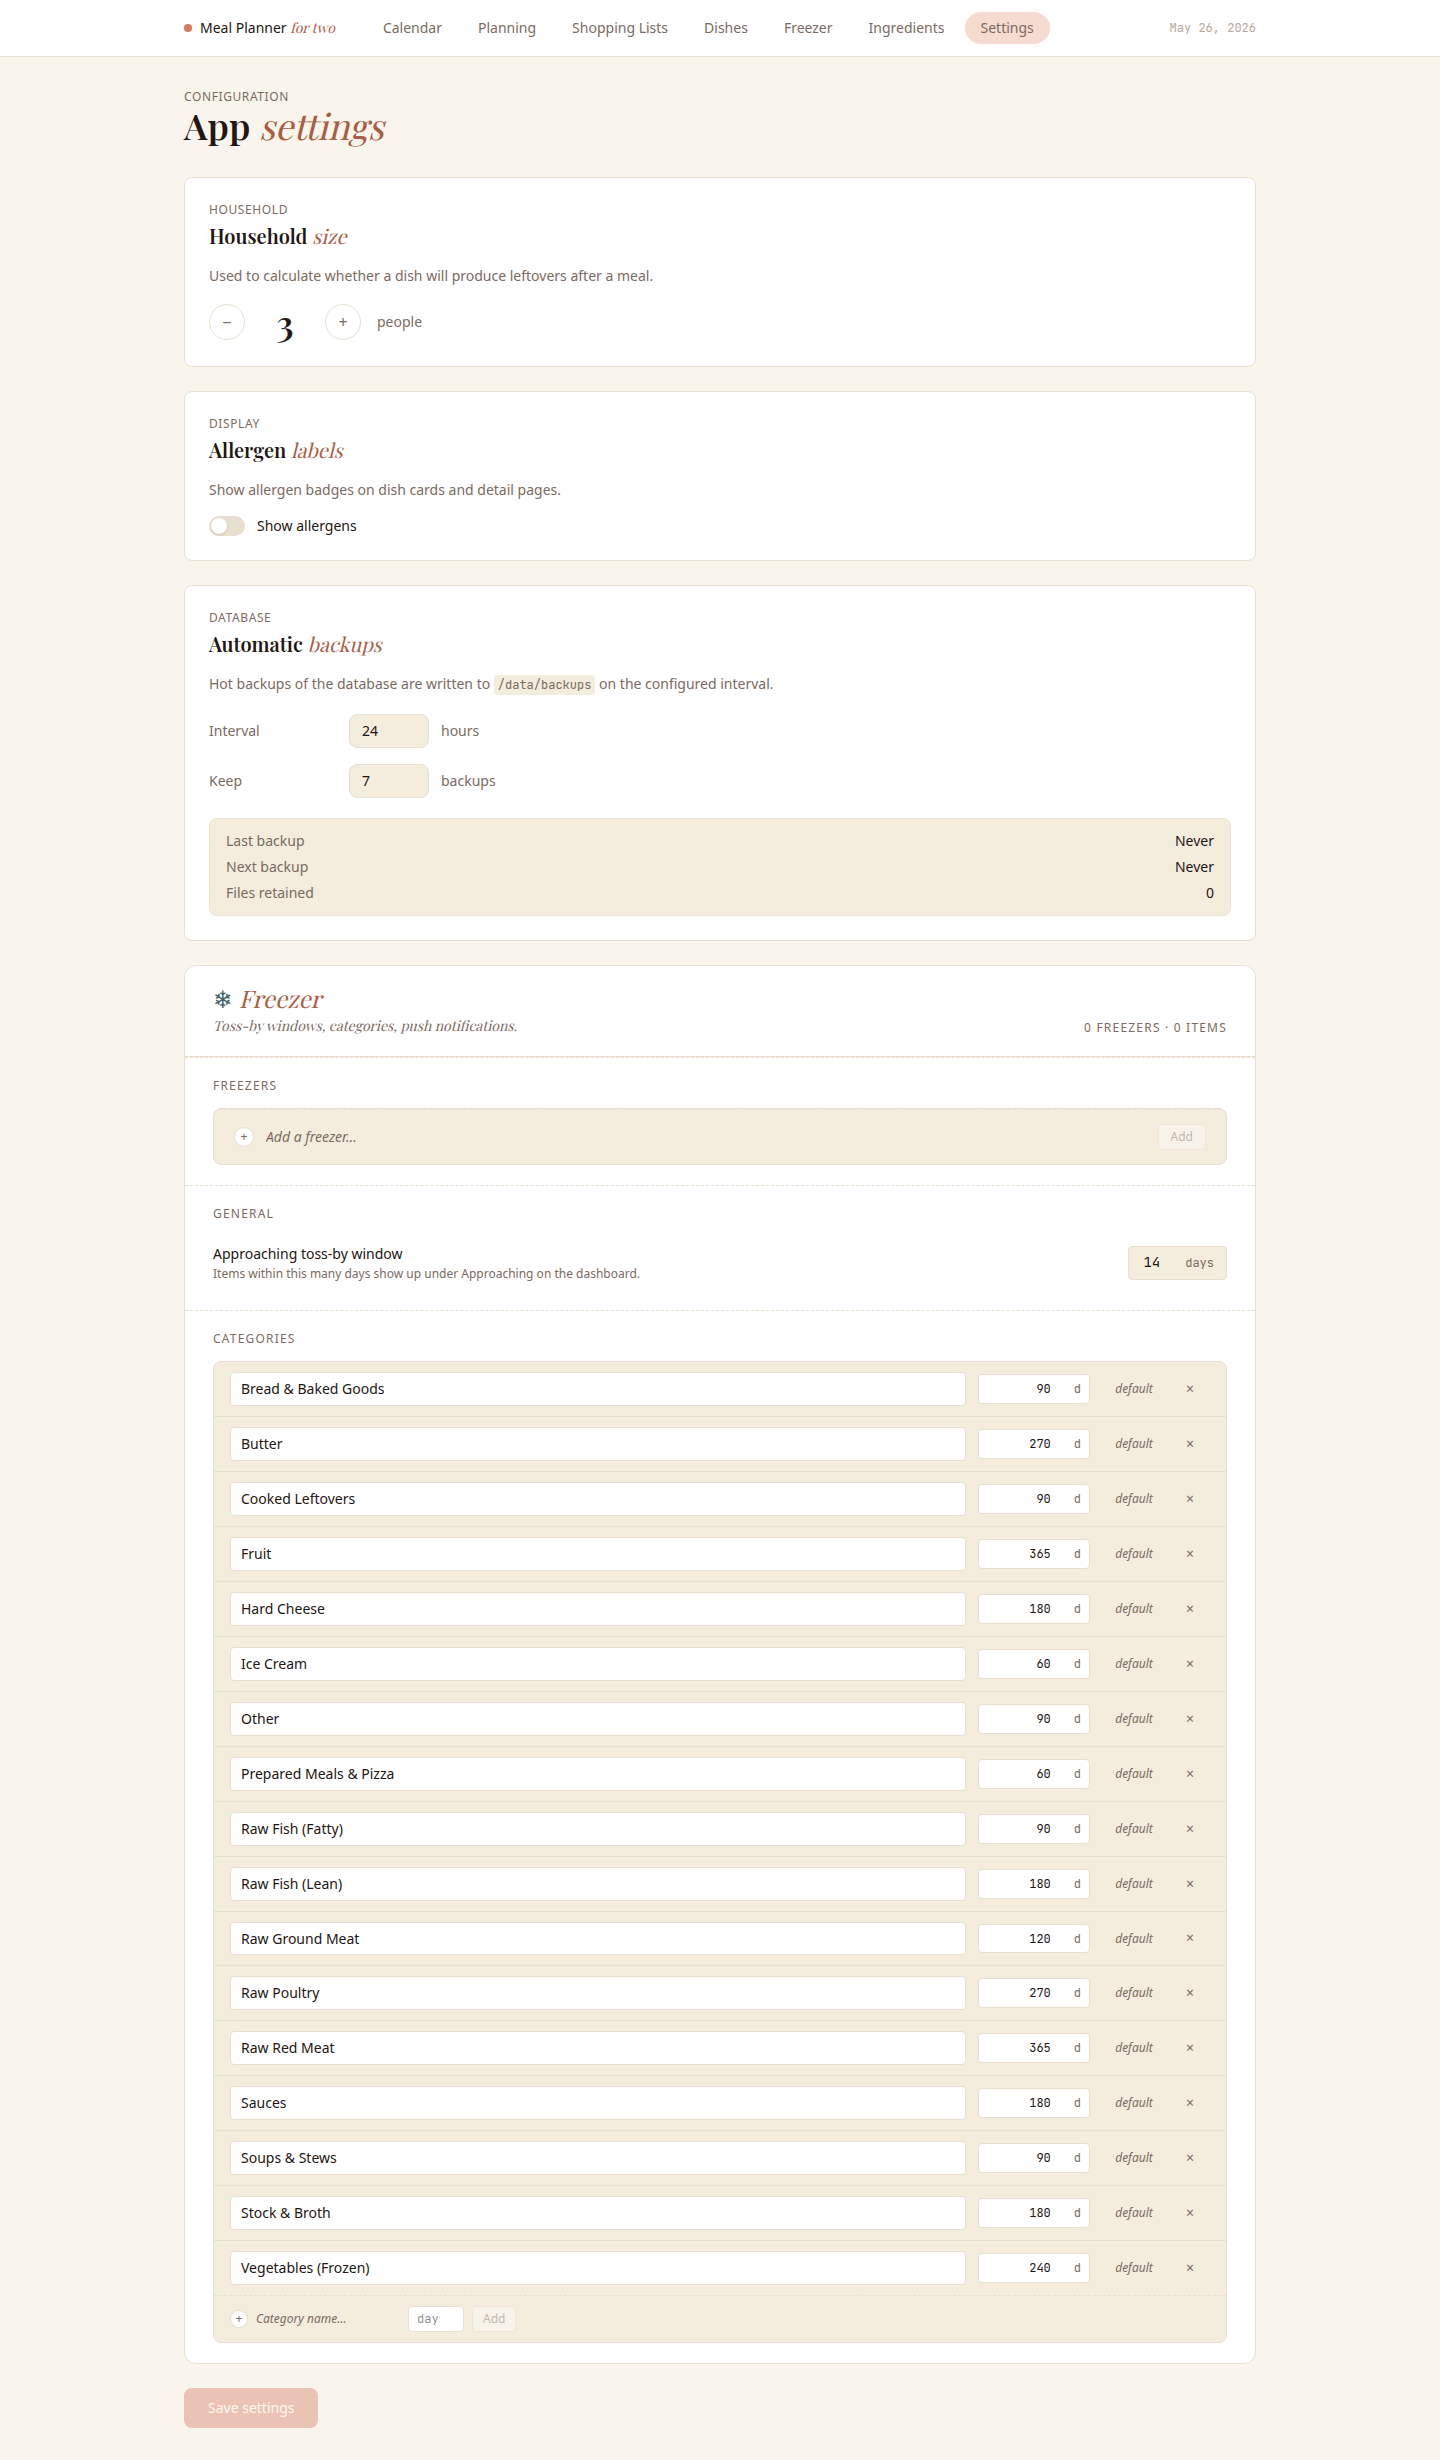
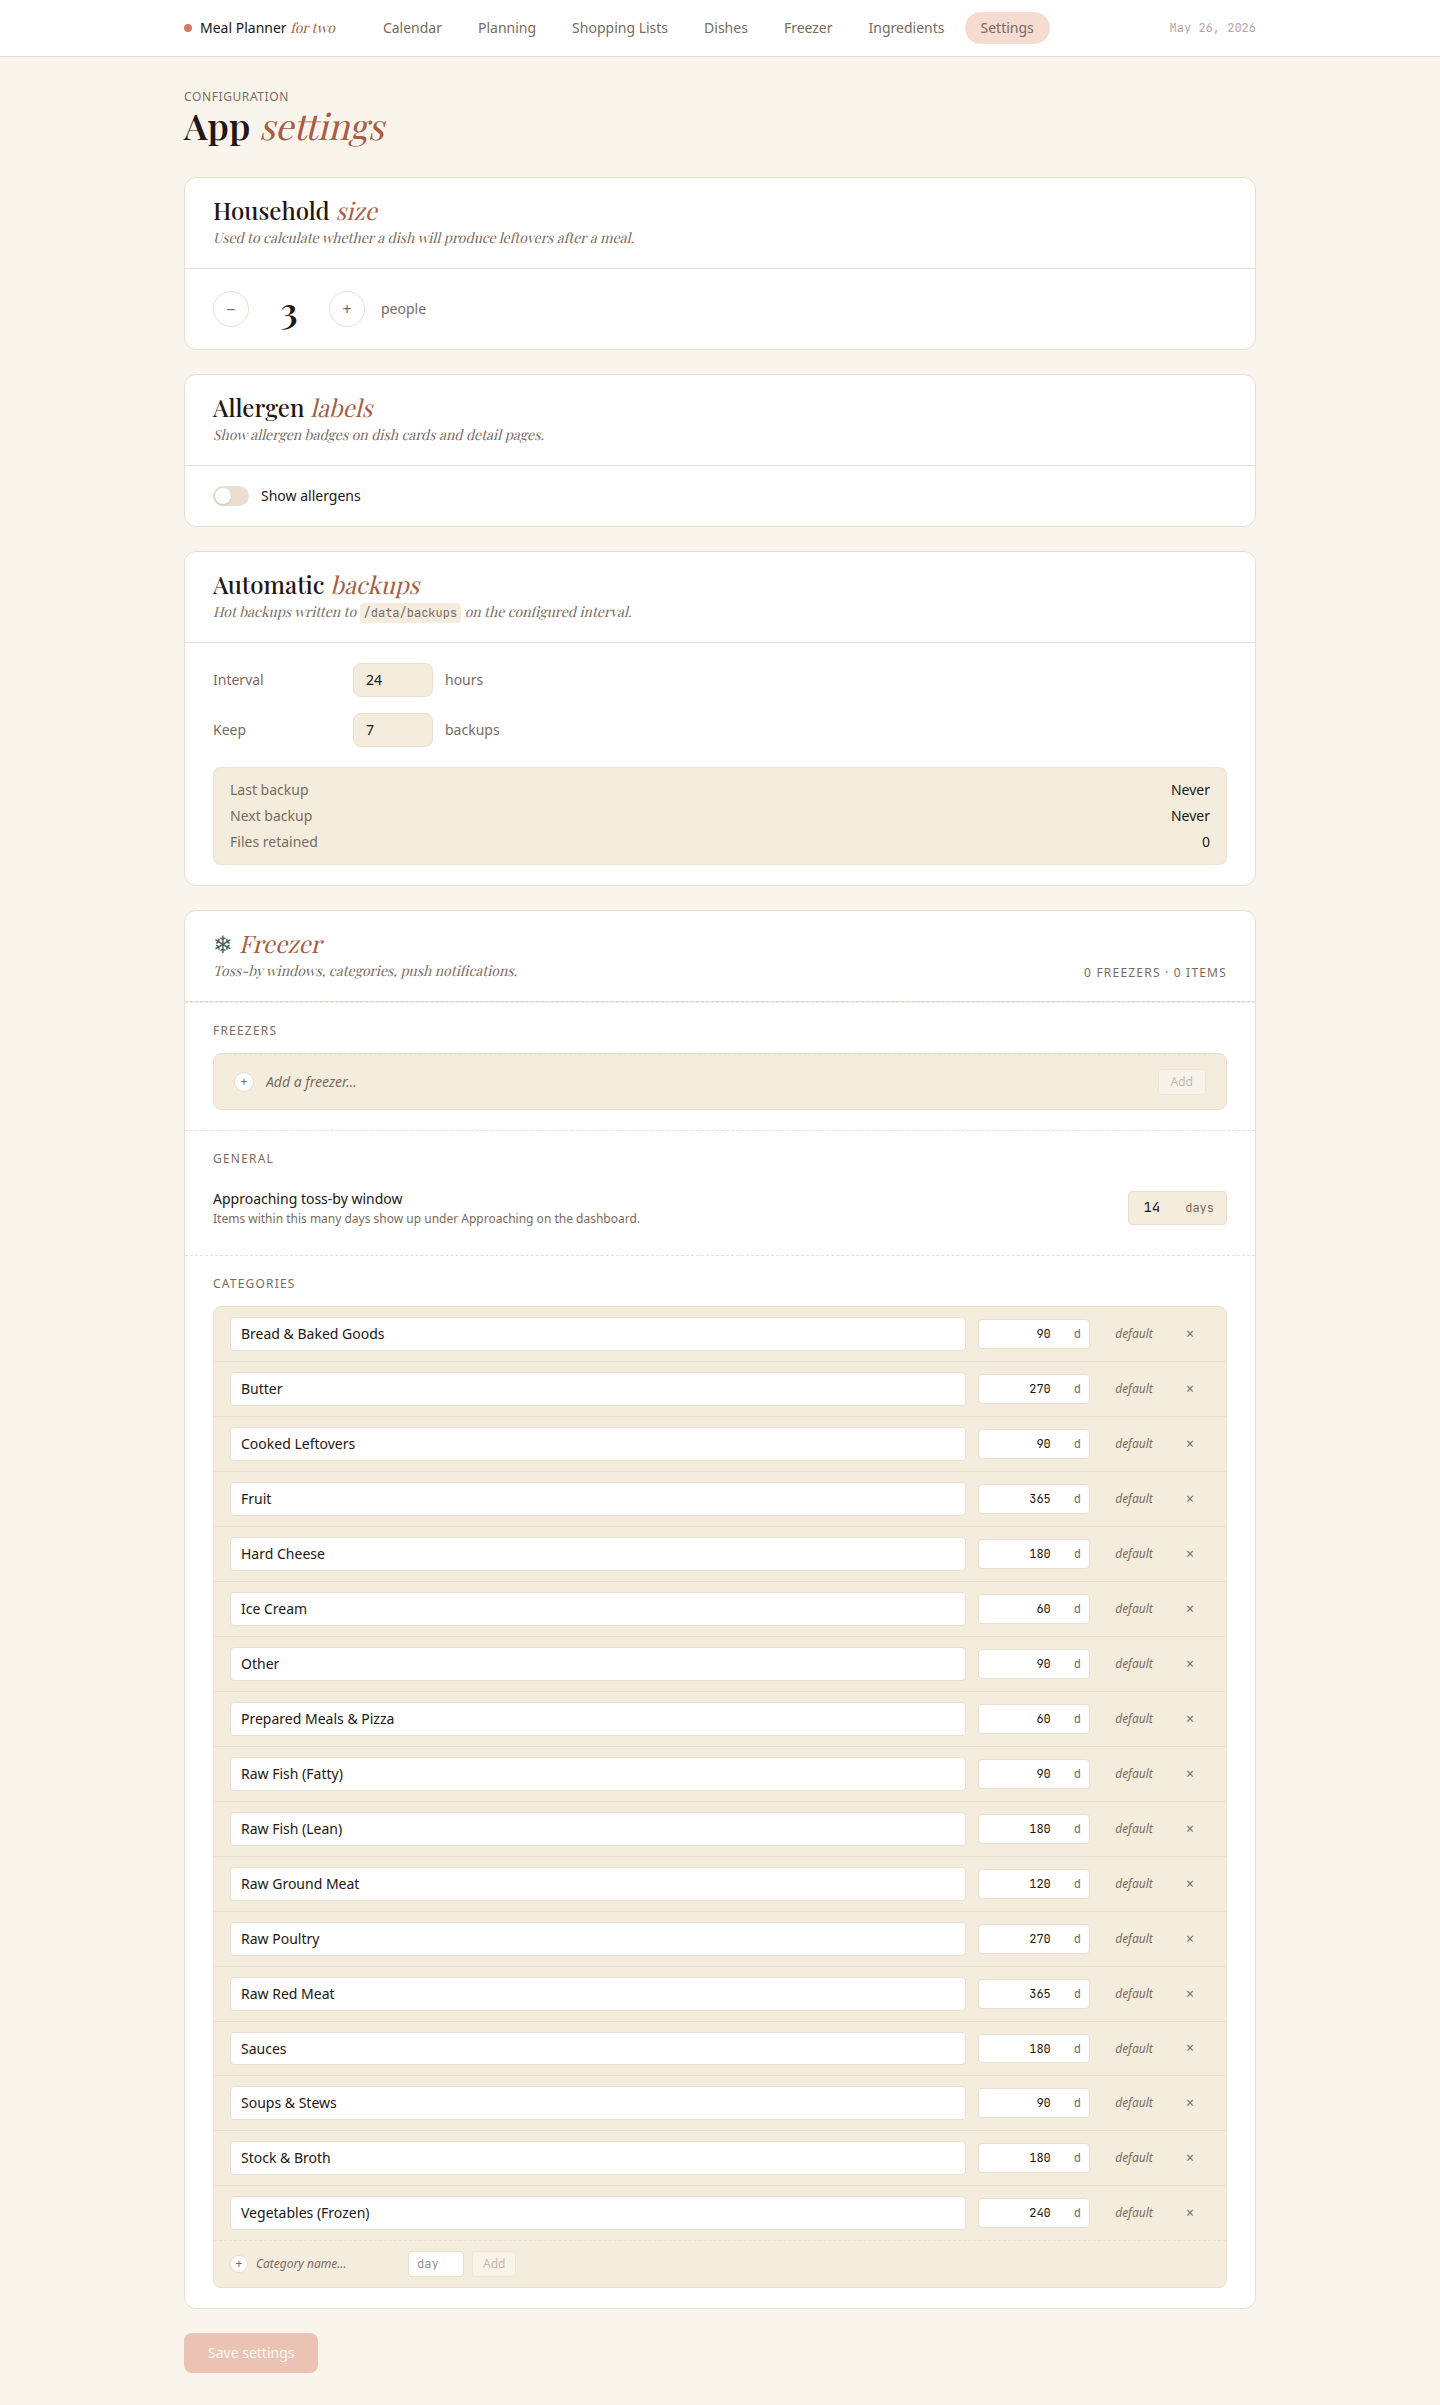
fix: match all settings card headers to freezer card style
Convert Household size, Allergen labels, and Automatic backups cards
to use the same rounded-xl overflow-hidden structure with a border-b
header section (h2 + italic serif subtitle) matching the Freezer card.
Removes the separate uppercase eyebrow labels.

Changed region(s): [[0.125, 0.0312, 0.875, 0.9667]]

diff --git a/app/pages/settings.vue b/app/pages/settings.vue
@@ -14,109 +14,116 @@
 
     <div v-else class="space-y-6">
       <!-- Household size -->
-      <div class="rounded-lg border border-border bg-surface p-6">
-        <p class="mb-1 text-xs font-medium uppercase tracking-wider text-text-muted">Household</p>
-        <h2 class="mb-4 font-serif text-xl font-semibold text-text">
-          Household <em class="font-normal italic text-accent-deep">size</em>
-        </h2>
-        <p class="mb-4 text-sm text-text-muted">
-          Used to calculate whether a dish will produce leftovers after a meal.
-        </p>
-        <div class="flex items-center gap-4">
-          <button
-            type="button"
-            class="flex h-9 w-9 items-center justify-center rounded-full border border-border text-text-muted hover:bg-surface-alt transition"
-            @click="form.householdSize = Math.max(1, form.householdSize - 1)"
-          >−</button>
-          <span class="font-serif text-4xl font-semibold text-text w-12 text-center">{{ form.householdSize }}</span>
-          <button
-            type="button"
-            class="flex h-9 w-9 items-center justify-center rounded-full border border-border text-text-muted hover:bg-surface-alt transition"
-            @click="form.householdSize++"
-          >+</button>
-          <span class="text-sm text-text-muted">people</span>
+      <div class="rounded-xl border border-border bg-surface overflow-hidden">
+        <div class="border-b border-border px-7 py-5">
+          <h2 class="font-serif text-2xl font-medium leading-none text-text">
+            Household <em class="font-normal italic text-accent-deep">size</em>
+          </h2>
+          <p class="mt-1.5 font-serif italic text-sm text-text-muted">
+            Used to calculate whether a dish will produce leftovers after a meal.
+          </p>
+        </div>
+        <div class="px-7 py-5">
+          <div class="flex items-center gap-4">
+            <button
+              type="button"
+              class="flex h-9 w-9 items-center justify-center rounded-full border border-border text-text-muted hover:bg-surface-alt transition"
+              @click="form.householdSize = Math.max(1, form.householdSize - 1)"
+            >−</button>
+            <span class="font-serif text-4xl font-semibold text-text w-12 text-center">{{ form.householdSize }}</span>
+            <button
+              type="button"
+              class="flex h-9 w-9 items-center justify-center rounded-full border border-border text-text-muted hover:bg-surface-alt transition"
+              @click="form.householdSize++"
+            >+</button>
+            <span class="text-sm text-text-muted">people</span>
+          </div>
         </div>
       </div>
 
       <!-- Allergen visibility -->
-      <div class="rounded-lg border border-border bg-surface p-6">
-        <p class="mb-1 text-xs font-medium uppercase tracking-wider text-text-muted">Display</p>
-        <h2 class="mb-4 font-serif text-xl font-semibold text-text">
-          Allergen <em class="font-normal italic text-accent-deep">labels</em>
-        </h2>
-        <p class="mb-4 text-sm text-text-muted">
-          Show allergen badges on dish cards and detail pages.
-        </p>
-        <label class="flex cursor-pointer items-center gap-3 select-none">
-          <button
-            type="button"
-            role="switch"
-            :aria-checked="form.showAllergens"
-            class="relative inline-flex h-5 w-9 shrink-0 rounded-full border-2 border-transparent transition-colors focus:outline-none focus:ring-2 focus:ring-accent/40"
-            :class="form.showAllergens ? 'bg-accent' : 'bg-border'"
-            @click="form.showAllergens = !form.showAllergens"
-          >
-            <span
-              class="pointer-events-none inline-block h-4 w-4 transform rounded-full bg-white shadow transition-transform"
-              :class="form.showAllergens ? 'translate-x-4' : 'translate-x-0'"
-            />
-          </button>
-          <span class="text-sm text-text">Show allergens</span>
-        </label>
+      <div class="rounded-xl border border-border bg-surface overflow-hidden">
+        <div class="border-b border-border px-7 py-5">
+          <h2 class="font-serif text-2xl font-medium leading-none text-text">
+            Allergen <em class="font-normal italic text-accent-deep">labels</em>
+          </h2>
+          <p class="mt-1.5 font-serif italic text-sm text-text-muted">
+            Show allergen badges on dish cards and detail pages.
+          </p>
+        </div>
+        <div class="px-7 py-5">
+          <label class="flex cursor-pointer items-center gap-3 select-none">
+            <button
+              type="button"
+              role="switch"
+              :aria-checked="form.showAllergens"
+              class="relative inline-flex h-5 w-9 shrink-0 rounded-full border-2 border-transparent transition-colors focus:outline-none focus:ring-2 focus:ring-accent/40"
+              :class="form.showAllergens ? 'bg-accent' : 'bg-border'"
+              @click="form.showAllergens = !form.showAllergens"
+            >
+              <span
+                class="pointer-events-none inline-block h-4 w-4 transform rounded-full bg-white shadow transition-transform"
+                :class="form.showAllergens ? 'translate-x-4' : 'translate-x-0'"
+              />
+            </button>
+            <span class="text-sm text-text">Show allergens</span>
+          </label>
+        </div>
       </div>
 
       <!-- Database backups -->
-      <div class="rounded-lg border border-border bg-surface p-6">
-        <p class="mb-1 text-xs font-medium uppercase tracking-wider text-text-muted">Database</p>
-        <h2 class="mb-4 font-serif text-xl font-semibold text-text">
-          Automatic <em class="font-normal italic text-accent-deep">backups</em>
-        </h2>
-        <p class="mb-5 text-sm text-text-muted">
-          Hot backups of the database are written to <code class="rounded bg-surface-alt px-1 py-0.5 text-xs font-mono">{{ backupDir }}</code> on the configured interval.
-        </p>
-
-        <div class="mb-5 space-y-4">
-          <div class="flex items-center gap-3">
-            <label class="w-32 shrink-0 text-sm text-text-muted">Interval</label>
-            <input
-              v-model.number="form.backupIntervalHours"
-              type="number"
-              min="1"
-              class="w-20 rounded-lg border border-border bg-surface-alt px-3 py-1.5 text-sm text-text focus:outline-none focus:ring-2 focus:ring-accent/40"
-            />
-            <span class="text-sm text-text-muted">hours</span>
-          </div>
-          <div class="flex items-center gap-3">
-            <label class="w-32 shrink-0 text-sm text-text-muted">Keep</label>
-            <input
-              v-model.number="form.backupRetainCount"
-              type="number"
-              min="1"
-              class="w-20 rounded-lg border border-border bg-surface-alt px-3 py-1.5 text-sm text-text focus:outline-none focus:ring-2 focus:ring-accent/40"
-            />
-            <span class="text-sm text-text-muted">backups</span>
-          </div>
+      <div class="rounded-xl border border-border bg-surface overflow-hidden">
+        <div class="border-b border-border px-7 py-5">
+          <h2 class="font-serif text-2xl font-medium leading-none text-text">
+            Automatic <em class="font-normal italic text-accent-deep">backups</em>
+          </h2>
+          <p class="mt-1.5 font-serif italic text-sm text-text-muted">
+            Hot backups written to <code class="not-italic rounded bg-surface-alt px-1 py-0.5 text-xs font-mono">{{ backupDir }}</code> on the configured interval.
+          </p>
         </div>
-
-        <!-- Status -->
-        <div class="rounded-lg border border-border/60 bg-surface-alt px-4 py-3 text-sm space-y-1.5">
-          <template v-if="backupStatusPending">
-            <div class="h-4 w-48 animate-pulse rounded bg-border" />
-          </template>
-          <template v-else-if="backupStatus">
-            <div class="flex justify-between gap-4">
-              <span class="text-text-muted">Last backup</span>
-              <span class="text-text font-medium tabular-nums">{{ formatBackupTime(backupStatus.lastBackup) }}</span>
+        <div class="px-7 py-5">
+          <div class="mb-5 space-y-4">
+            <div class="flex items-center gap-3">
+              <label class="w-32 shrink-0 text-sm text-text-muted">Interval</label>
+              <input
+                v-model.number="form.backupIntervalHours"
+                type="number"
+                min="1"
+                class="w-20 rounded-lg border border-border bg-surface-alt px-3 py-1.5 text-sm text-text focus:outline-none focus:ring-2 focus:ring-accent/40"
+              />
+              <span class="text-sm text-text-muted">hours</span>
             </div>
-            <div class="flex justify-between gap-4">
-              <span class="text-text-muted">Next backup</span>
-              <span class="text-text font-medium tabular-nums">{{ formatBackupTime(backupStatus.nextBackup) }}</span>
+            <div class="flex items-center gap-3">
+              <label class="w-32 shrink-0 text-sm text-text-muted">Keep</label>
+              <input
+                v-model.number="form.backupRetainCount"
+                type="number"
+                min="1"
+                class="w-20 rounded-lg border border-border bg-surface-alt px-3 py-1.5 text-sm text-text focus:outline-none focus:ring-2 focus:ring-accent/40"
+              />
+              <span class="text-sm text-text-muted">backups</span>
             </div>
-            <div class="flex justify-between gap-4">
-              <span class="text-text-muted">Files retained</span>
-              <span class="text-text font-medium tabular-nums">{{ backupStatus.backupCount }}</span>
-            </div>
-          </template>
+          </div>
+          <!-- Status -->
+          <div class="rounded-lg border border-border/60 bg-surface-alt px-4 py-3 text-sm space-y-1.5">
+            <template v-if="backupStatusPending">
+              <div class="h-4 w-48 animate-pulse rounded bg-border" />
+            </template>
+            <template v-else-if="backupStatus">
+              <div class="flex justify-between gap-4">
+                <span class="text-text-muted">Last backup</span>
+                <span class="text-text font-medium tabular-nums">{{ formatBackupTime(backupStatus.lastBackup) }}</span>
+              </div>
+              <div class="flex justify-between gap-4">
+                <span class="text-text-muted">Next backup</span>
+                <span class="text-text font-medium tabular-nums">{{ formatBackupTime(backupStatus.nextBackup) }}</span>
+              </div>
+              <div class="flex justify-between gap-4">
+                <span class="text-text-muted">Files retained</span>
+                <span class="text-text font-medium tabular-nums">{{ backupStatus.backupCount }}</span>
+              </div>
+            </template>
+          </div>
         </div>
       </div>
 
